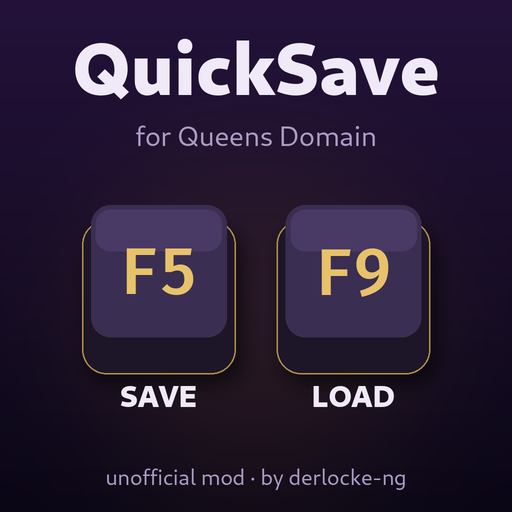
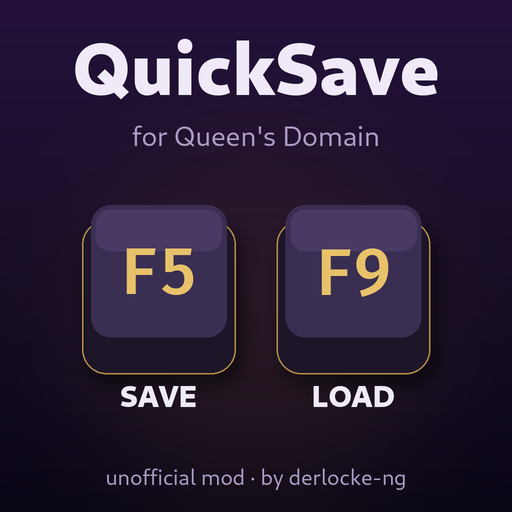
Use the game's own names: Crystal Monument, Queen's Domain; Steam Deck is untested
- main.lua: comments, one log line and the monolith* variables now say
  Crystal Monument / monument*; header no longer says UE4SS experimental
- tools, lock file, image generator and both Steam images: Queen's Domain
- README, Steam guide text, release notes and zip readme: claim Windows and
  Linux only; the Steam Deck is described as untested

Changed region(s): [[0.25, 0.25, 0.75, 0.3125]]

diff --git a/tools/make_steam_images.py b/tools/make_steam_images.py
@@ -70,7 +70,7 @@ def square(path, s=512):
     img = background(w, h)
     d = ImageDraw.Draw(img)
     centered(d, w / 2, h * 0.075, "QuickSave", font(BOLD, 74), TEXT)
-    centered(d, w / 2, h * 0.245, "for Queens Domain", font(REG, 28), MUTED)
+    centered(d, w / 2, h * 0.245, "for Queen's Domain", font(REG, 28), MUTED)
     k = w * 0.30
     gap = w * 0.08
     x0 = (w - 2 * k - gap) / 2
@@ -95,7 +95,7 @@ def banner(path, w0=1280, h0=720):
     l, t, r, b = d.textbbox((0, 0), "QuickSave", font=tf)
     d.text((lx - l, h * 0.26 - t), "QuickSave", font=tf, fill=TEXT)
     sf = font(REG, 44)
-    d.text((lx, h * 0.26 + (b - t) + h * 0.05), "for Queens Domain", font=sf, fill=MUTED)
+    d.text((lx, h * 0.26 + (b - t) + h * 0.05), "for Queen's Domain", font=sf, fill=MUTED)
     bf = font(REG, 34)
     lines = ["F5  quicksave anywhere", "F9 ×2  load it, even after death", "your normal saves stay untouched"]
     y = h * 0.60

diff --git a/tools/build_release.py b/tools/build_release.py
@@ -84,7 +84,7 @@ def readme_txt(version, bundled):
         f"QDQuickSave {version} - quicksave / quickload for Queen's Domain",
         "",
         "Extract this zip into the game folder: the folder that contains QueensDomain.exe.",
-        "Then follow README.md on the project page for the remaining step on Linux/Steam Deck (one DLL override).",
+        "Then follow README.md on the project page for the remaining step on Linux (one DLL override).",
         "",
         "F5 = quicksave (in game, after your first save at a Crystal Monument)",
         "F9 twice = load the quicksave (in game or on the death screen)",

diff --git a/tools/snapshot_saves.py b/tools/snapshot_saves.py
@@ -1,5 +1,5 @@
 #!/usr/bin/env python3
-"""Snapshot or diff the Queens Domain save directory. Never writes to it.
+"""Snapshot or diff the Queen's Domain save directory. Never writes to it.
 
   snapshot_saves.py snap  <name>          record names, sizes, mtimes, sha256; copy SaveGames files
   snapshot_saves.py diff  <old> <new>     compare two recorded snapshots

diff --git a/README.md b/README.md
@@ -11,7 +11,8 @@ Both keys can be changed.
 - **Uses the game's own save code.** The game quietly writes a "suspend save" every two minutes and resumes it
   when you load the slot (crash protection it never mentions). A quicksave is a copy of that save, and loading one
   is the game's own resume.
-- Windows, Linux and Steam Deck.
+- Runs on Windows and on Linux (Steam with Proton, Bottles). The Steam Deck is untested, see
+  [Steam Deck](#steam-deck).
 
 > Unofficial fan mod. Not made or supported by Freshly Baked Games.
 
@@ -32,11 +33,11 @@ Both keys can be changed.
 3. Extract the zip **into that folder**, keeping the folder structure.
 4. Check that `QueensDomain\Binaries\Win64\dwmapi.dll` now exists, then start the game.
 
-### Linux, Steam Deck, Proton, Bottles, Lutris
+### Linux (Steam with Proton, Bottles, Lutris)
 
 Do the Windows steps, then tell Wine to load the mod loader (once):
 
-- **Steam / Steam Deck (Proton):** right-click the game → **Properties** → **Launch options**, paste:
+- **Steam (Proton):** right-click the game → **Properties** → **Launch options**, paste:
   ```
   WINEDLLOVERRIDES="dwmapi=n,b" %command%
   ```
@@ -44,6 +45,16 @@ Do the Windows steps, then tell Wine to load the mod loader (once):
 - **Lutris:** right-click the game → **Configure** → **Runner options** → **DLL overrides** → add `dwmapi` = `n,b`.
 
 Without this step the mod does not load, because Wine uses its own `dwmapi.dll` instead of the mod loader's.
+
+### Steam Deck
+
+Not tested. The Deck runs the game through Proton like any Linux PC, so the Linux steps should apply, but nobody
+has confirmed it yet.
+
+The Deck has no F5 or F9. In the game's controller layout (Steam Input), assign two spare buttons, for example
+the back grips, to the keyboard keys F5 and F9, or to the keys you set in `config.ini`.
+
+If you try it, please [report](https://github.com/derlocke-ng/queens-maiden-save-mod/issues) whether it works.
 
 ### Already using UE4SS?
 
@@ -163,6 +174,7 @@ Quicksave files stay in your save folder until you delete them, and are harmless
 - Queen's Domain **1.01.07** (Unreal Engine 4.27.2)
 - UE4SS **v4.0.0**, the build included in the `-with-UE4SS` zip
 - Linux (Fedora Silverblue) with Steam and Bottles, and Windows 11
+- Steam Deck: not tested
 - Other mods and other UE4SS versions may work.
 
 ## For developers
